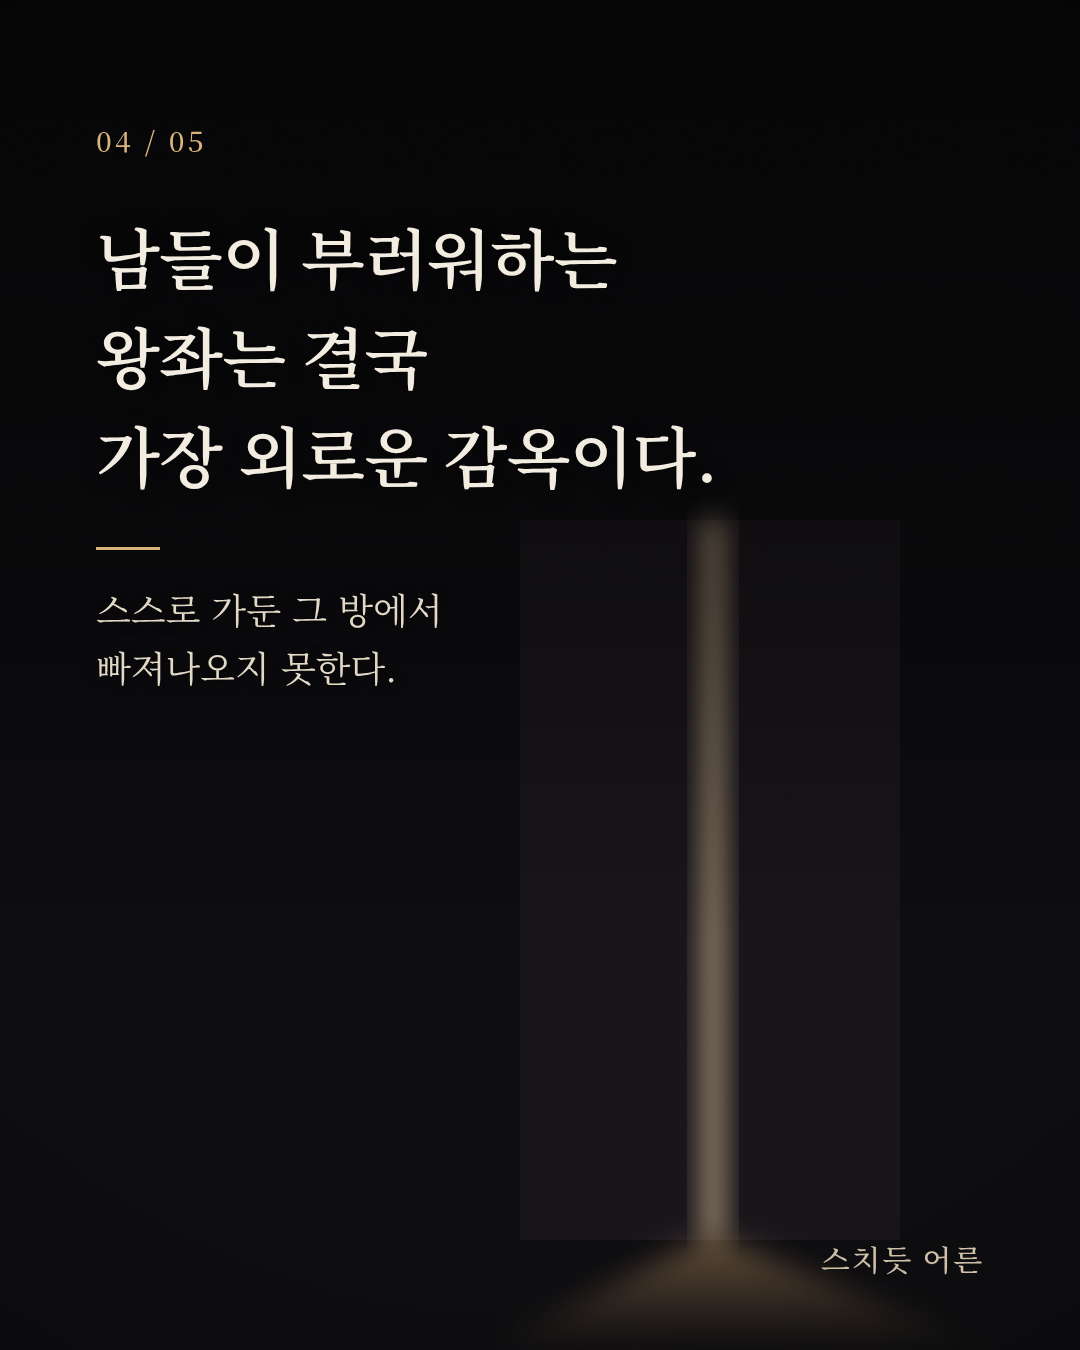
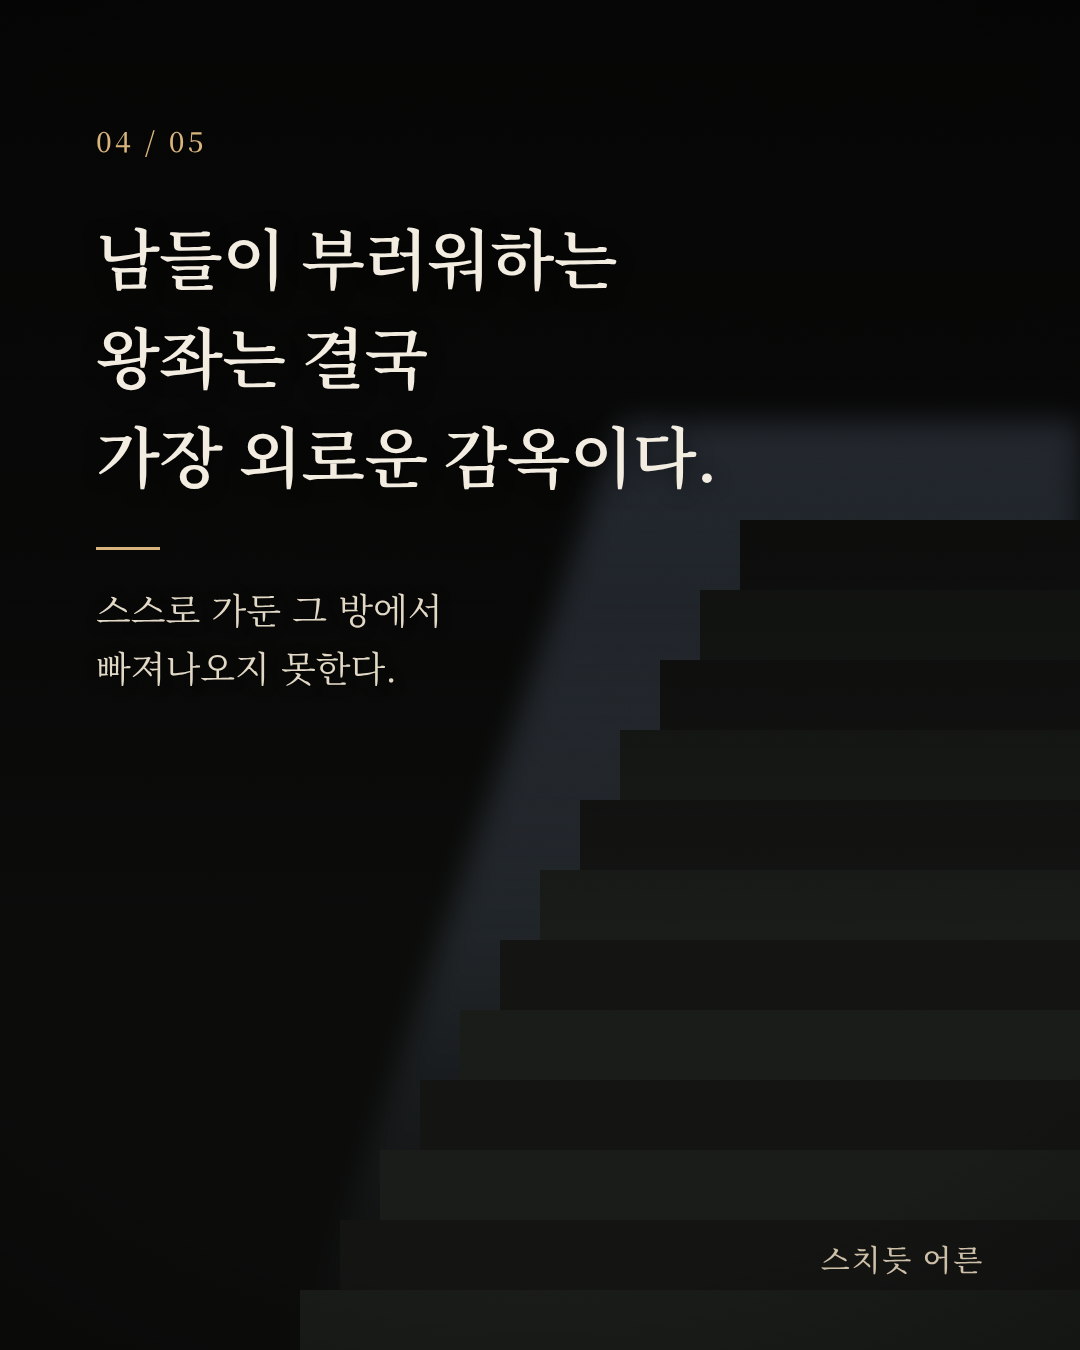
명언 카드 배경 13가지로 늘리고 세트마다 장면·빛 색이 겹치지 않게
Claude-Session: https://claude.ai/code/session_01SAkGGqEMXxCyEiJA26VZCo

Changed region(s): [[0.5194, 0.3111, 1.0, 0.9644], [0.4278, 0.56, 0.4889, 0.7156], [0.0917, 0.4667, 0.1222, 0.4978]]

diff --git a/scripts/render_cards.py b/scripts/render_cards.py
@@ -9,6 +9,9 @@ W, H = 1080, 1350
 HERE = os.path.dirname(os.path.abspath(__file__))
 FONT = os.path.abspath(os.path.join(HERE, "..", "fonts", "NotoSerifKR.ttf"))
 BRAND = "스치듯 어른"
+# 세트마다 바꾸는 빛의 색 (장면 레이어에만 적용)
+PALETTES = {"amber": "none", "moon": "hue-rotate(185deg) saturate(.7)", "rose": "hue-rotate(-28deg) saturate(1.15)",
+            "mist": "hue-rotate(95deg) saturate(.45)", "gold": "hue-rotate(12deg) saturate(.8) brightness(1.05)"}
 
 SCENES = {
  # 어둠 속 가로등 하나
@@ -56,12 +59,69 @@ SCENES = {
   <ellipse cx="540" cy="1262" rx="230" ry="22" fill="#f0a75a" opacity=".12" filter="url(#b)"/>""",
 }
 
+SCENES.update({
+ # 비 오는 창
+ "rain": """
+  <defs><linearGradient id="rw" x1="0" y1="0" x2="0" y2="1"><stop offset="0" stop-color="#3a4150"/><stop offset="1" stop-color="#c88a4e"/></linearGradient></defs>
+  <rect width="1080" height="1350" fill="#0d0f14"/>
+  <rect x="560" y="480" width="420" height="640" fill="url(#rw)" opacity=".75"/>
+  <circle cx="820" cy="980" r="60" fill="#ffcf8a" opacity=".55" filter="url(#b)"/><circle cx="660" cy="900" r="36" fill="#ffd9a0" opacity=".4" filter="url(#b)"/>
+  """ + "".join(f'<line x1="{560+((i*53)%420)}" y1="{480+((i*97)%560)}" x2="{562+((i*53)%420)}" y2="{540+((i*97)%560)}" stroke="#e6edf5" stroke-opacity=".35" stroke-width="2"/>' for i in range(60)) + """
+  <rect x="764" y="480" width="12" height="640" fill="#0d0f14"/><rect x="560" y="790" width="420" height="12" fill="#0d0f14"/>""",
+ # 달빛 바다
+ "sea": """
+  <defs><linearGradient id="ss" x1="0" y1="0" x2="0" y2="1"><stop offset="0" stop-color="#07090f"/><stop offset=".7" stop-color="#1b2232"/><stop offset="1" stop-color="#2b3346"/></linearGradient></defs>
+  <rect width="1080" height="1350" fill="url(#ss)"/>
+  <circle cx="760" cy="760" r="70" fill="#f4e6c8"/><circle cx="760" cy="760" r="180" fill="#f4e6c8" opacity=".12" filter="url(#b)"/>
+  <rect x="0" y="960" width="1080" height="390" fill="#080a10"/>
+  """ + "".join(f'<rect x="{760-w//2}" y="{980+i*26}" width="{w}" height="5" rx="2" fill="#f4e6c8" opacity="{0.55-i*0.04:.2f}"/>' for i,w in enumerate([120,180,90,220,140,260,100,200,160,240,120,180])),
+ # 빈 의자와 전구
+ "chair": """
+  <rect width="1080" height="1350" fill="#0e0c0c"/>
+  <line x1="760" y1="0" x2="760" y2="560" stroke="#222" stroke-width="3"/>
+  <circle cx="760" cy="580" r="26" fill="#ffd9a0"/><circle cx="760" cy="600" r="320" fill="#e9a65c" opacity=".16" filter="url(#b)"/>
+  <ellipse cx="760" cy="1240" rx="300" ry="40" fill="#e9a65c" opacity=".14" filter="url(#b)"/>
+  <g fill="#040404"><rect x="660" y="900" width="200" height="22"/><rect x="660" y="740" width="18" height="182"/><rect x="842" y="740" width="18" height="182"/><rect x="660" y="740" width="200" height="16"/>
+  <rect x="666" y="920" width="16" height="320"/><rect x="838" y="920" width="16" height="320"/></g>""",
+ # 빛이 내려오는 계단
+ "stairs": """
+  <defs><linearGradient id="st" x1="0" y1="0" x2="0" y2="1"><stop offset="0" stop-color="#f6c88c" stop-opacity=".55"/><stop offset="1" stop-color="#f6c88c" stop-opacity="0"/></linearGradient></defs>
+  <rect width="1080" height="1350" fill="#0c0b0e"/>
+  <polygon points="620,420 1080,420 1080,1350 300,1350" fill="url(#st)" opacity=".5" filter="url(#b)"/>
+  """ + "".join(f'<rect x="{300+i*40}" y="{1290-i*70}" width="{780-i*40}" height="{70}" fill="#{"151317" if i%2 else "1c191e"}"/>' for i in range(12)),
+ # 구름 사이 큰 달
+ "moon": """
+  <rect width="1080" height="1350" fill="#090b12"/>
+  <circle cx="720" cy="980" r="190" fill="#efe3c6"/><circle cx="720" cy="980" r="420" fill="#efe3c6" opacity=".1" filter="url(#b)"/>
+  <ellipse cx="520" cy="1150" rx="420" ry="70" fill="#0d0f17" opacity=".95" filter="url(#b)"/><ellipse cx="900" cy="1190" rx="300" ry="60" fill="#0d0f17" opacity=".9" filter="url(#b)"/>""",
+ # 밤 기차역 승강장
+ "station": """
+  <rect width="1080" height="1350" fill="#0b0c10"/>
+  <polygon points="540,760 560,760 1080,1350 0,1350" fill="#16171d"/>
+  <line x1="548" y1="760" x2="250" y2="1350" stroke="#c9a46e" stroke-opacity=".5" stroke-width="4"/><line x1="552" y1="760" x2="830" y2="1350" stroke="#c9a46e" stroke-opacity=".5" stroke-width="4"/>
+  """ + "".join(f'<circle cx="{560+ (i*i*9)}" cy="{700-i*28}" r="{4+i*3}" fill="#ffd79c" opacity=".9"/><circle cx="{560+(i*i*9)}" cy="{700-i*28}" r="{20+i*12}" fill="#ffc06a" opacity=".12" filter="url(#b)"/>' for i in range(1,8)),
+ # 눈 내리는 길
+ "snow": """
+  <defs><linearGradient id="sn" x1="0" y1="0" x2="0" y2="1"><stop offset="0" stop-color="#0a0d14"/><stop offset="1" stop-color="#26303f"/></linearGradient></defs>
+  <rect width="1080" height="1350" fill="url(#sn)"/>
+  <polygon points="520,880 560,880 900,1350 180,1350" fill="#d9dee6" opacity=".18"/>
+  <circle cx="540" cy="880" r="14" fill="#ffd9a0"/><circle cx="540" cy="880" r="120" fill="#ffd9a0" opacity=".15" filter="url(#b)"/>
+  """ + "".join(f'<circle cx="{(i*131)%1080}" cy="{(i*277)%1350}" r="{1+(i%4)}" fill="#fff" opacity="{0.25+(i%5)*0.1:.2f}"/>' for i in range(140)),
+ # 언덕 위 나무 한 그루
+ "tree": """
+  <defs><linearGradient id="tr" x1="0" y1="0" x2="0" y2="1"><stop offset="0" stop-color="#0b0c14"/><stop offset=".75" stop-color="#3a2a2c"/><stop offset="1" stop-color="#b9714a"/></linearGradient></defs>
+  <rect width="1080" height="1350" fill="url(#tr)"/>
+  <path d="M0 1180 Q 540 1040 1080 1180 V1350 H0Z" fill="#060608"/>
+  <g stroke="#060608" stroke-linecap="round" fill="none"><path d="M760 1100 L760 860" stroke-width="22"/><path d="M760 960 L680 860 M760 920 L850 830 M760 880 L720 790 M760 870 L800 780 M680 860 L640 820 M850 830 L900 810" stroke-width="10"/></g>
+  <circle cx="760" cy="800" r="140" fill="#060608" opacity=".9"/>"""
+})
+
 
 def esc(t):
     return html.escape(t)
 
 
-def page(card, i, n):
+def page(card, i, n, palette="amber"):
     lines = "<br>".join(esc(l) for l in card["lines"])
     desc = "<br>".join(esc(l) for l in card.get("desc", []))
     big = "final" if i == n else ""
@@ -69,7 +129,7 @@ def page(card, i, n):
 @font-face{{font-family:S;src:url('file://{FONT}');font-weight:200 900}}
 *{{margin:0;padding:0;box-sizing:border-box}}
 body{{width:{W}px;height:{H}px;overflow:hidden;background:#000;font-family:S,serif;color:#f3ece0}}
-svg{{position:absolute;inset:0}}
+svg{{position:absolute;inset:0}}\n.scene{{filter:{PALETTES.get(palette, "none")}}}
 .shade{{position:absolute;inset:0;background:linear-gradient(180deg,rgba(0,0,0,.62) 0%,rgba(0,0,0,.35) 45%,rgba(0,0,0,0) 70%),radial-gradient(120% 90% at 50% 45%,rgba(0,0,0,0) 55%,rgba(0,0,0,.55) 100%)}}
 .grain{{position:absolute;inset:0;opacity:.09;mix-blend-mode:overlay}}
 .txt{{position:absolute;left:96px;right:96px;top:120px}}
@@ -82,7 +142,7 @@ svg{{position:absolute;inset:0}}
 .cta{{margin-top:56px;font-size:34px;font-weight:600;color:#e8c48c;letter-spacing:.01em}}
 .brand{{position:absolute;right:96px;bottom:70px;font-size:30px;font-weight:500;color:#cdbfa8;letter-spacing:.06em}}
 </style></head><body class="{big}">
-<svg viewBox="0 0 {W} {H}" width="{W}" height="{H}"><defs><filter id="b" x="-50%" y="-50%" width="200%" height="200%"><feGaussianBlur stdDeviation="14"/></filter></defs>{SCENES[card['scene']]}</svg>
+<svg class="scene" viewBox="0 0 {W} {H}" width="{W}" height="{H}"><defs><filter id="b" x="-50%" y="-50%" width="200%" height="200%"><feGaussianBlur stdDeviation="14"/></filter></defs>{SCENES[card['scene']]}</svg>
 <div class="shade"></div>
 <svg class="grain" viewBox="0 0 {W} {H}"><filter id="n"><feTurbulence type="fractalNoise" baseFrequency=".9" numOctaves="2" seed="{i}"/></filter><rect width="100%" height="100%" filter="url(#n)"/></svg>
 <div class="txt"><div class="no">{i:02d} / {n:02d}</div><div class="label">{esc(card.get('label',''))}</div>
@@ -105,7 +165,7 @@ def render(src, outdir):
         pg = b.new_page(viewport={"width": W, "height": H})
         for i, c in enumerate(cards, 1):
             tmp = os.path.join(outdir, f"_card{i}.html")
-            open(tmp, "w", encoding="utf-8").write(page(c, i, len(cards)))
+            open(tmp, "w", encoding="utf-8").write(page(c, i, len(cards), data.get("palette", "amber")))
             pg.goto("file://" + os.path.abspath(tmp))
             pg.evaluate("document.fonts.ready")
             pg.wait_for_timeout(300)

diff --git a/scripts/generate_quotes.py b/scripts/generate_quotes.py
@@ -8,7 +8,34 @@ import glob, json, os, re, sys, time, urllib.error, urllib.request
 sys.path.insert(0, os.path.dirname(os.path.abspath(__file__)))
 KEY = os.environ.get("GEMINI_API_KEY", "")
 MODELS = [m for m in [os.environ.get("GEMINI_MODEL"), "gemini-flash-latest", "gemini-3.6-flash", "gemini-flash-lite-latest"] if m]
-SCENES = ["lamp", "window", "door", "dusk", "candle"]
+from render_cards import SCENES as _SC
+SCENES = list(_SC)
+PALETTE_ORDER = ["amber", "moon", "rose", "mist", "gold"]
+
+
+def assign_backgrounds(s, prev_sets):
+    """글(세트)마다 배경이 겹치지 않게: 바로 앞 2세트에서 쓴 장면은 빼고, 오래 안 쓴 장면부터.
+    제미나이가 고른 장면이 쓸 수 있는 것이면 우선 존중. 빛 색(palette)도 세트마다 바꿈."""
+    recent = []
+    for p in prev_sets[-2:]:
+        recent += [c.get("scene") for c in p.get("cards", [])]
+    last_use = {}
+    for k, p in enumerate(prev_sets):
+        for c in p.get("cards", []):
+            last_use[c.get("scene")] = k
+    fresh = sorted([x for x in SCENES if x not in recent], key=lambda x: last_use.get(x, -1))
+    pool = fresh + sorted([x for x in SCENES if x not in fresh], key=lambda x: last_use.get(x, -1))
+    used = set()
+    for c in s["cards"]:
+        want = c.get("scene")
+        if want in fresh and want not in used:
+            c["scene"] = want
+        else:
+            c["scene"] = next(x for x in pool if x not in used)
+        used.add(c["scene"])
+    prev_pal = prev_sets[-1].get("palette") if prev_sets else None
+    nxt = PALETTE_ORDER[(PALETTE_ORDER.index(prev_pal) + 1) % len(PALETTE_ORDER)] if prev_pal in PALETTE_ORDER else PALETTE_ORDER[len(prev_sets) % len(PALETTE_ORDER)]
+    s["palette"] = nxt
 
 OUTPUT_RULE = """
 
@@ -16,7 +43,7 @@ OUTPUT_RULE = """
 - 서로 다른 주제로 카드뉴스 {n}세트를 만든다. 아래 '이미 다룬 주제'와 겹치지 않게.
 - 카드 안 문장은 짧게: 큰 문장(lines)은 한 줄 13자 안팎, 2~5줄. 작은 설명(desc)은 0~3줄, 한 줄 16자 안팎. 5장째는 desc 없이 최종 명언만.
 - 큰 문장은 '~다'체 또는 명사로, 설명은 자연스러운 한국어로. 맞춤법·띄어쓰기 확인.
-- scene은 장마다 다르게, 다음 중에서 고른다: lamp(어둠 속 가로등), window(어두운 방 창문 빛), door(문틈 빛), dusk(해 질 녘 지평선), candle(촛불). 문장 뜻과 어울리게.
+- scene은 장마다 다르게, 다음 중에서 문장 뜻과 어울리게 고른다: lamp(어둠 속 가로등), window(어두운 방 창문 빛), door(문틈 빛), dusk(해 질 녘 지평선), candle(촛불), rain(비 오는 창), sea(달빛 바다), chair(빈 의자와 전구), stairs(빛이 내려오는 계단), moon(구름 사이 달), station(밤 기차역), snow(눈 내리는 길), tree(언덕 위 나무 한 그루).
 - 실존 인물 이름, 출처 표기, 이모지 금지.
 
 [이미 다룬 주제]
@@ -71,9 +98,8 @@ def main():
         if not ok(s):
             print("형식이 맞지 않아 건너뜀:", s.get("title")); continue
         num += 1
-        for i, c in enumerate(s["cards"]):
-            if c.get("scene") not in SCENES:
-                c["scene"] = SCENES[i]
+        prev = [json.load(open(f, encoding="utf-8")) for f in sorted(glob.glob("sets/*.json"))]
+        assign_backgrounds(s, [p for p in prev if p.get("status") != "sample"])
         s["cards"][0]["label"] = s.get("title", "")
         for c in s["cards"][1:]:
             c["label"] = ""
